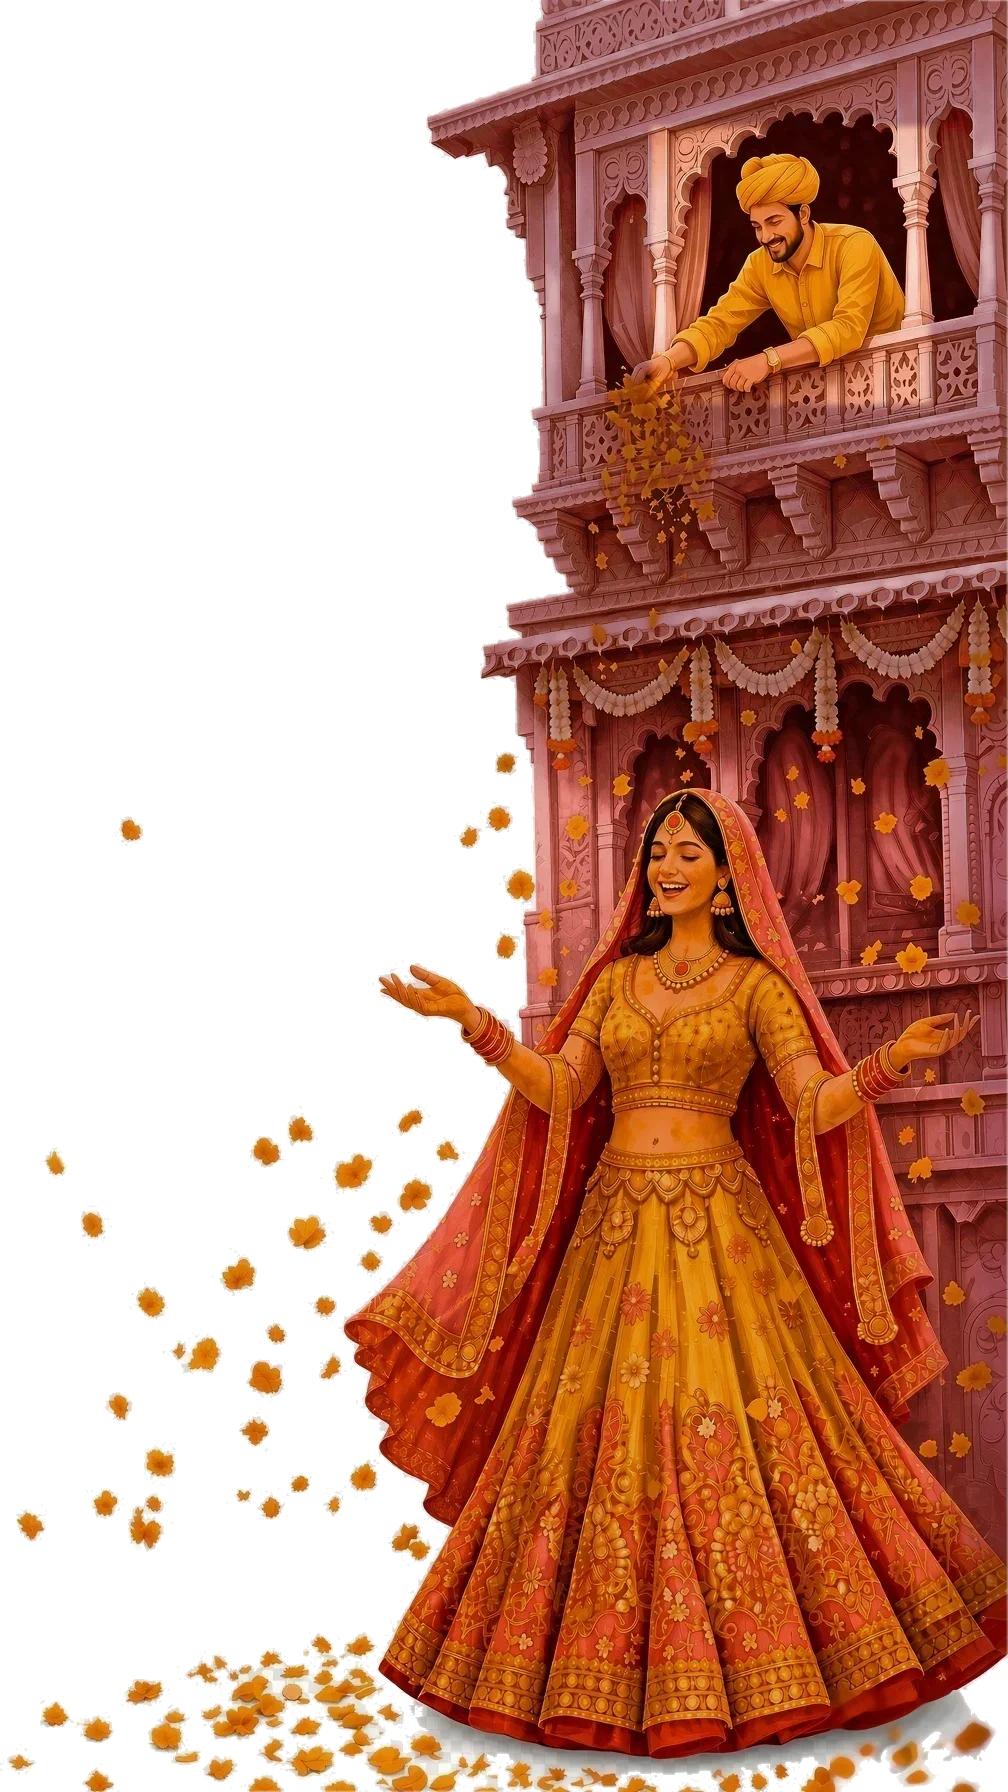
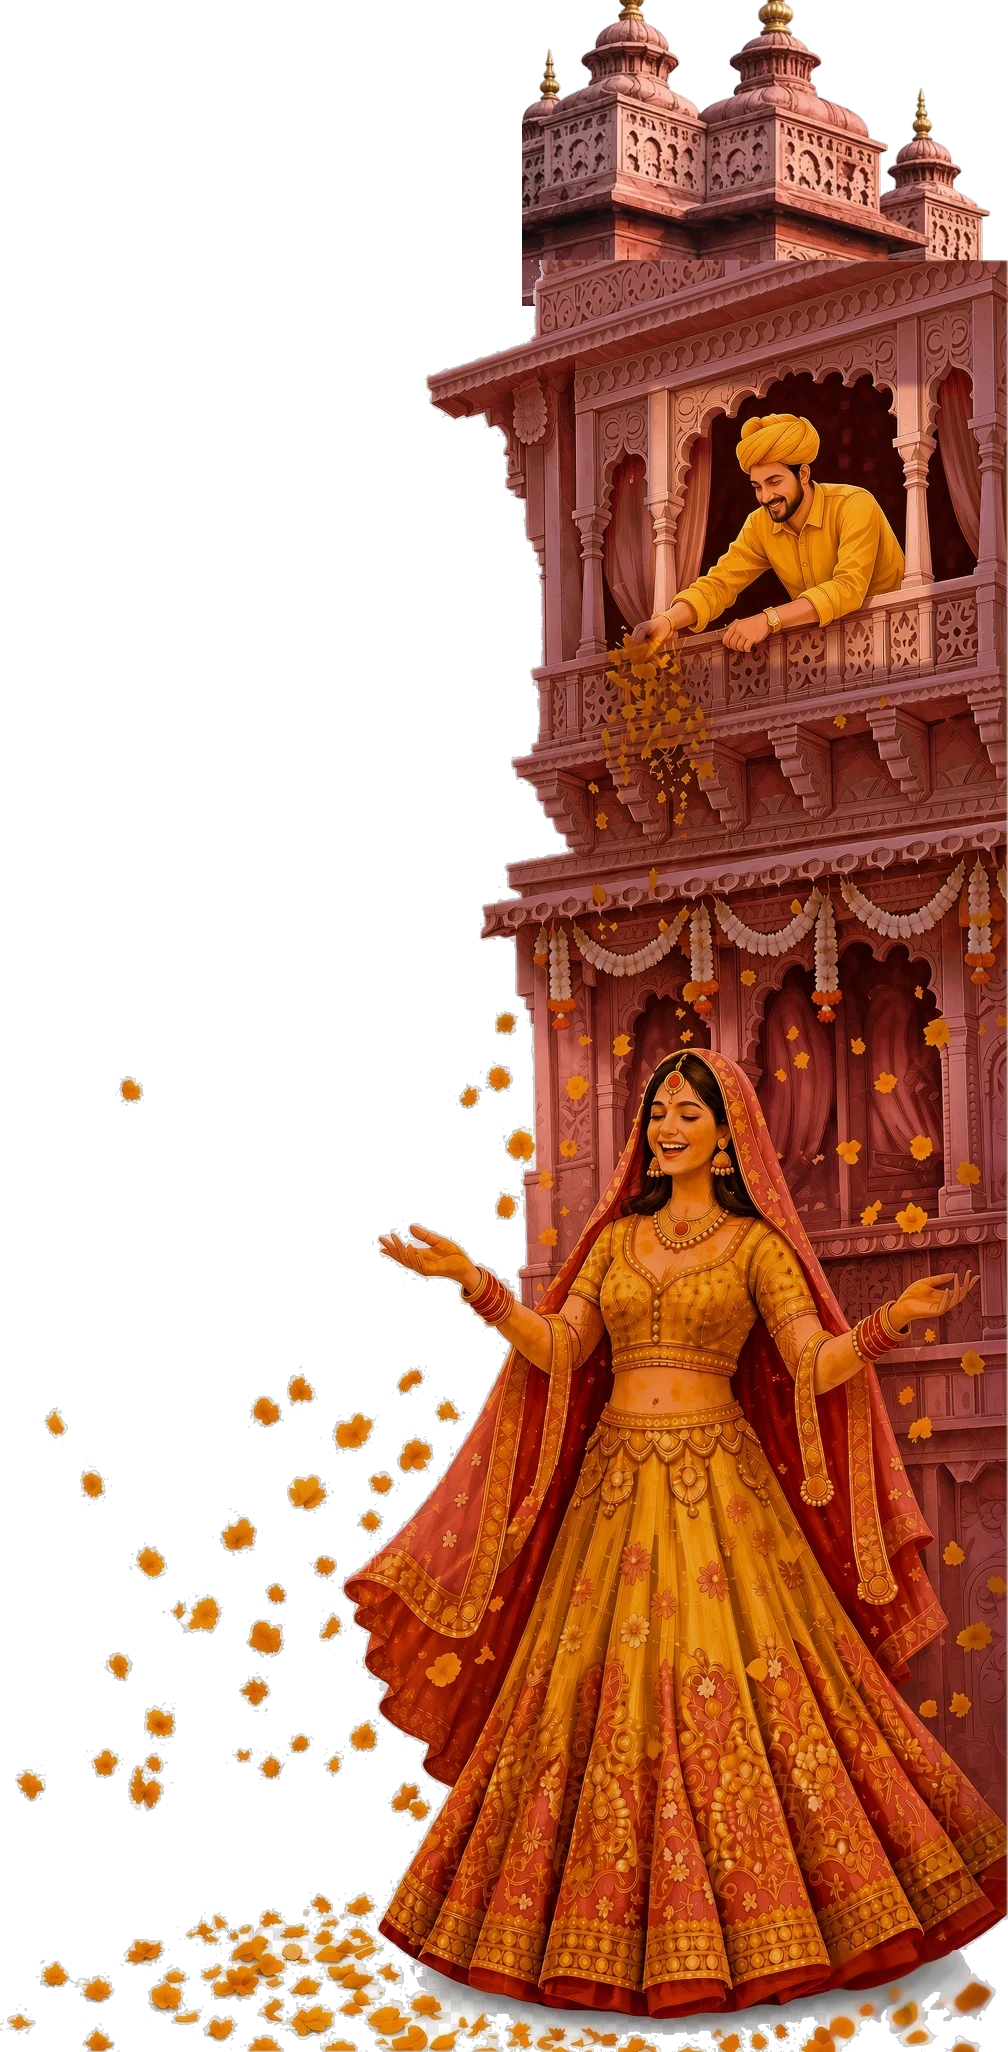
Complete the haldi tower and reduce the card to Haldi only
Crown the cut tower with the jharokha's chhatri roof, tone-softened and
tucked behind the parapet so the palace reads complete. Drop Sangeet &
Engagement from this card (it gets its own card later).

Claude-Session: https://claude.ai/code/session_01Laey7iPgSkAxcR1n1p2GxR

diff --git a/src/components/Events.jsx b/src/components/Events.jsx
@@ -116,12 +116,12 @@ function HaldiScene() {
       <Reveal className="bigday__head bigday__head--left">
         <div className="event-card__icon" aria-hidden="true"><HaldiIcon /></div>
         <p className="event-card__kicker">It's Glow Time</p>
-        <h3 className="bigday__title script">Haldi, Sangeet &amp; Engagement</h3>
+        <h3 className="bigday__title script">Haldi</h3>
         <p className="event-card__meta">Wednesday · 25<sup>th</sup> November 2026</p>
         <div className="event-card__sub">
-          {['Lagun · 9:00 am', 'Bhat · 10:00 am', 'Haldi & Tel · 2:00 pm', 'Sangeet & Engagement · 8:00 pm'].map((s, i) => (
+          {['Lagun · 9:00 am', 'Bhat · 10:00 am', 'Haldi & Tel · 2:00 pm'].map((s, i) => (
             <span key={s} className="event-card__subitem">
-              {i > 0 && <i>\u2756</i>}
+              {i > 0 && <i>❖</i>}
               <span>{nb(s)}</span>
             </span>
           ))}
@@ -151,7 +151,7 @@ export default function Events() {
 
       </div>
 
-      {/* 25 Nov — Haldi, Sangeet & Engagement as a full painted scene */}
+      {/* 25 Nov — Haldi as a full painted scene */}
       <HaldiScene />
 
       {/* The Big Day — one composition: the jharokha with the full day beside it */}
